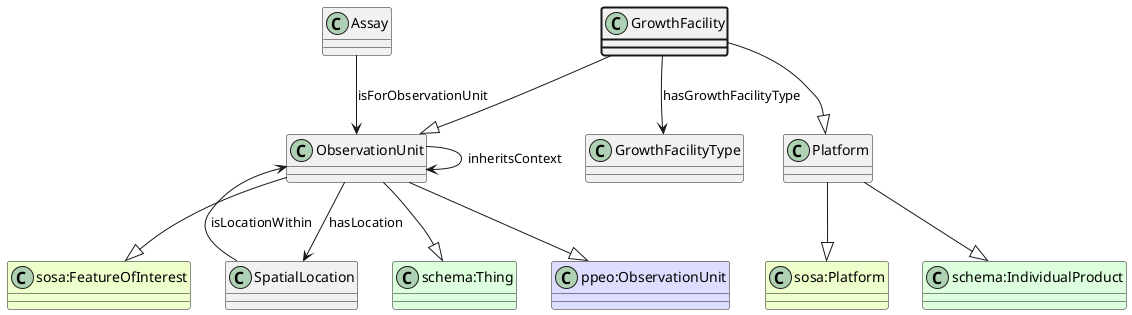
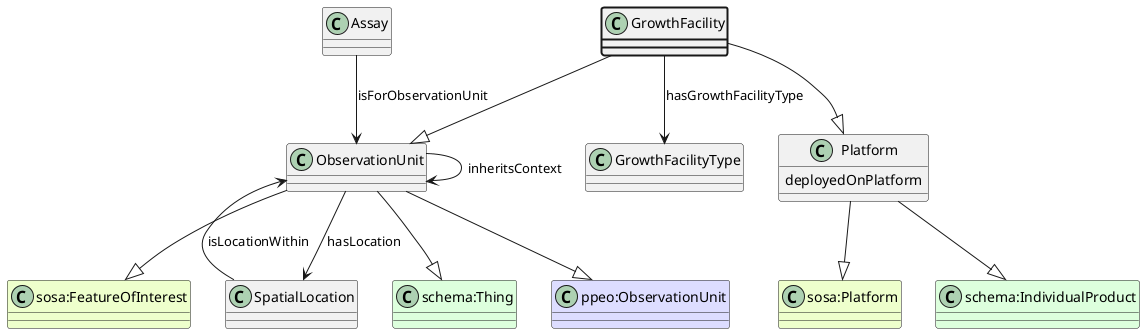
New lines

diff --git a/ttl2uml.py b/ttl2uml.py
@@ -142,7 +142,7 @@ def write_properties(uml: io.TextIOWrapper, md: io.TextIOWrapper, cls: tuple[str
                 heading_written = True
             if len(property[1]) == 0:
                 uml.write(f"class {class_name} {{\n    {ppty_name}\n}}\n")
-                md.write(f"* {focus_class[1]} {prefixes[ppty[0]]}{ppty[1]}")
+                md.write(f"* {focus_class[1]} {prefixes[ppty[0]]}{ppty[1]}\n")
             for r in property[1]:
                 if r == cls:
                     reflexive = True

diff --git a/doc/appn_GrowthFacility.md b/doc/appn_GrowthFacility.md
@@ -12,6 +12,7 @@
 * https://www.w3.org/ns/sosa/FeatureOfInterest
 ## Properties
 * appn:GrowthFacility appn:hasGrowthFacilityType [appn:GrowthFacilityType](/doc/appn_GrowthFacilityType.md)
+* GrowthFacility https://schema.plantphenomics.org.au/deployedOnPlatform
 * [appn:Assay](/doc/appn_Assay.md) appn:isForObservationUnit [appn:ObservationUnit](/doc/appn_ObservationUnit.md)
 * [appn:ObservationUnit](/doc/appn_ObservationUnit.md) appn:inheritsContext [appn:ObservationUnit](/doc/appn_ObservationUnit.md)
 * [appn:ObservationUnit](/doc/appn_ObservationUnit.md) appn:hasLocation [appn:SpatialLocation](/doc/appn_SpatialLocation.md)

diff --git a/doc/appn_Variable.md b/doc/appn_Variable.md
@@ -7,7 +7,8 @@
 * http://ddialliance.org/Specification/DDI-CDI/1.0/RDF/RepresentedVariable
 * https://schema.org/InstanceValue
 ## Properties
-* Variable https://schema.plantphenomics.org.au/hasDefaultValue## Subclasses
+* Variable https://schema.plantphenomics.org.au/hasDefaultValue
+## Subclasses
 * [https://schema.plantphenomics.org.au/ObservedVariable](/doc/appn_ObservedVariable.md)
 * [https://schema.plantphenomics.org.au/ControlledVariable](/doc/appn_ControlledVariable.md)
 * [https://schema.plantphenomics.org.au/InputVariable](/doc/appn_InputVariable.md)

diff --git a/doc/appn_SpatialLocation.md b/doc/appn_SpatialLocation.md
@@ -8,4 +8,5 @@
 ## Properties
 * [appn:ObservationUnit](/doc/appn_ObservationUnit.md) appn:hasLocation appn:SpatialLocation
 * appn:SpatialLocation appn:isLocationWithin [appn:ObservationUnit](/doc/appn_ObservationUnit.md)
-* SpatialLocation https://schema.plantphenomics.org.au/row* SpatialLocation https://schema.plantphenomics.org.au/column
+* SpatialLocation https://schema.plantphenomics.org.au/row
+* SpatialLocation https://schema.plantphenomics.org.au/column

diff --git a/doc/appn_Actuator.md b/doc/appn_Actuator.md
@@ -7,5 +7,6 @@
 * https://www.w3.org/ns/sosa/Actuator
 * https://schema.org/IndividualProduct
 ## Properties
+* Actuator https://schema.plantphenomics.org.au/deployedSystem
 * [appn:Control](/doc/appn_Control.md) appn:madeByController [appn:Controller](/doc/appn_Controller.md)
 * [appn:Input](/doc/appn_Input.md) appn:madeByController [appn:Controller](/doc/appn_Controller.md)

diff --git a/doc/appn_Deployment.md b/doc/appn_Deployment.md
@@ -6,4 +6,5 @@
 * https://www.w3.org/ns/ssn/Deployment
 * https://schema.org/Thing
 ## Properties
-* Deployment https://schema.plantphenomics.org.au/deployedSystem* Deployment https://schema.plantphenomics.org.au/deployedOnPlatform
+* Deployment https://schema.plantphenomics.org.au/deployedSystem
+* Deployment https://schema.plantphenomics.org.au/deployedOnPlatform

diff --git a/doc/appn_Platform.md b/doc/appn_Platform.md
@@ -5,5 +5,7 @@
 ## Superclasses
 * https://www.w3.org/ns/sosa/Platform
 * https://schema.org/IndividualProduct
+## Properties
+* Platform https://schema.plantphenomics.org.au/deployedOnPlatform
 ## Subclasses
 * [https://schema.plantphenomics.org.au/GrowthFacility](/doc/appn_GrowthFacility.md)

diff --git a/doc/appn_Sensor.md b/doc/appn_Sensor.md
@@ -7,4 +7,5 @@
 * https://www.w3.org/ns/sosa/Sensor
 * https://schema.org/IndividualProduct
 ## Properties
+* Sensor https://schema.plantphenomics.org.au/deployedSystem
 * [appn:Observation](/doc/appn_Observation.md) appn:madeByObserver [appn:Observer](/doc/appn_Observer.md)
